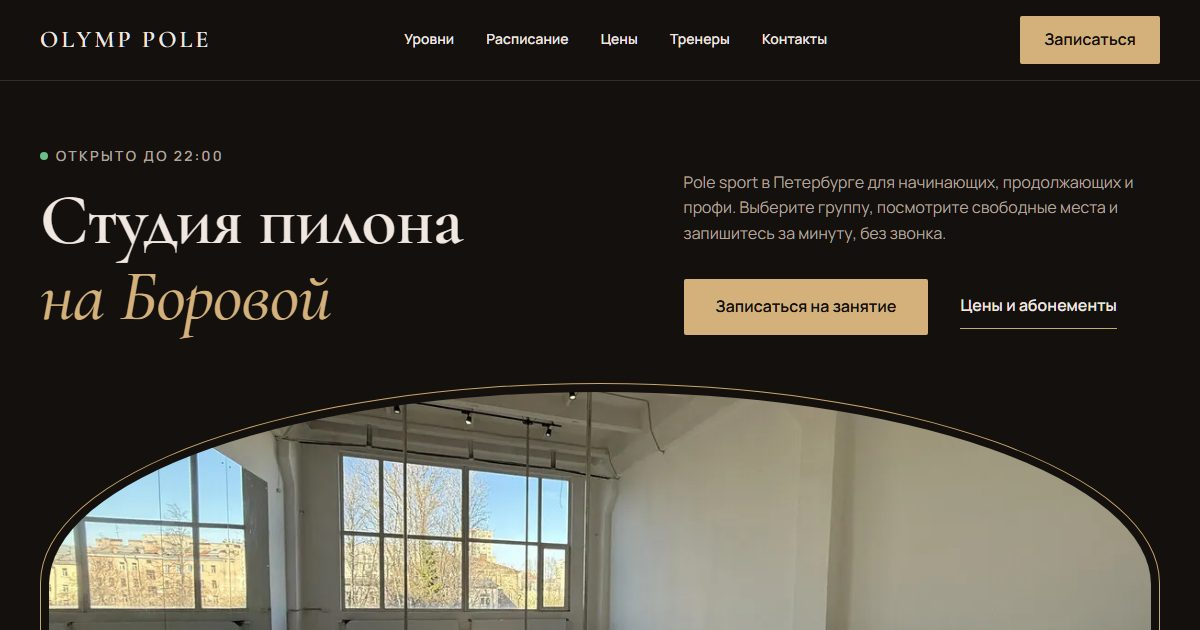
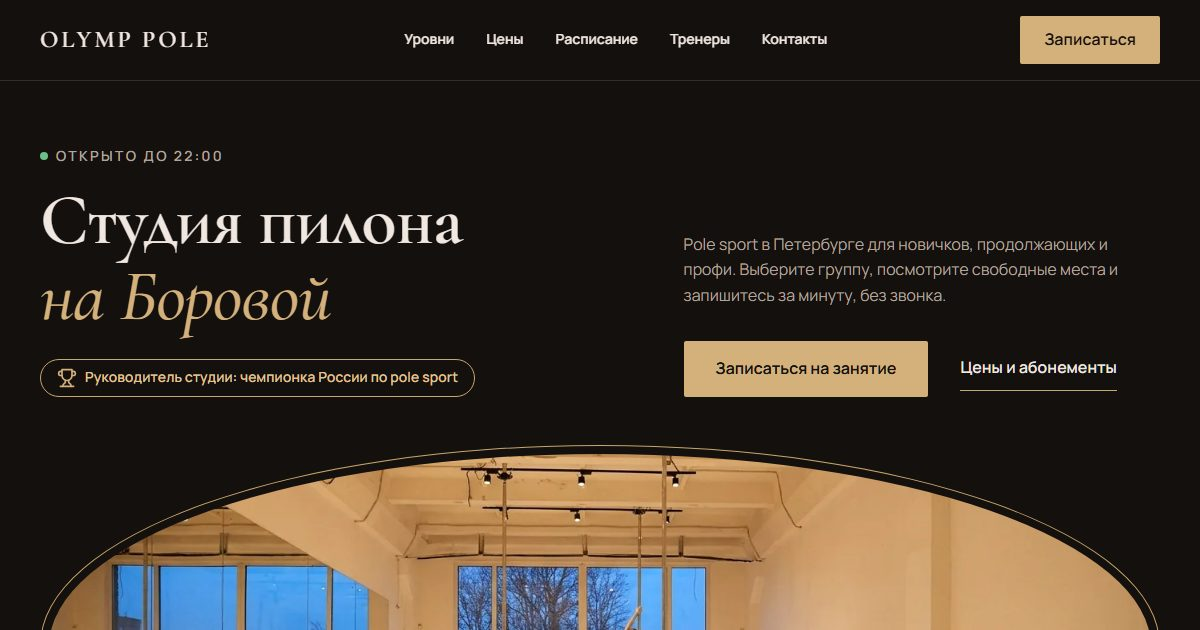
Первый экран: фото зала, переделанное в Gemini (вечер, тёплый свет, ученицы на пилонах), новая картинка превью

diff --git a/index.html b/index.html
@@ -15,7 +15,7 @@
 <meta name="theme-color" content="#14100E">
 <link rel="icon" href="favicon.svg" type="image/svg+xml">
 <script>document.documentElement.classList.add('js')</script>
-<link rel="preload" as="image" href="img/zal-okna.webp">
+<link rel="preload" as="image" href="img/zal-vecher.webp">
 <link rel="preconnect" href="https://olymp-pole-bot.capybaria-bot.workers.dev">
 <link rel="stylesheet" href="style.css">
 <script type="application/ld+json">{
@@ -24,7 +24,7 @@
   "name": "Olymp Pole",
   "description": "Студия танца на пилоне: pole sport для новичков, продолжающих и профи",
   "url": "https://maltode.github.io/olymp-pole/",
-  "image": "https://maltode.github.io/olymp-pole/img/zal-okna.webp",
+  "image": "https://maltode.github.io/olymp-pole/img/zal-vecher.webp",
   "telephone": "+79602408032",
   "address": {"@type": "PostalAddress", "streetAddress": "Боровая ул., 116, 3 этаж, офис 312", "addressLocality": "Санкт-Петербург", "addressCountry": "RU"},
   "geo": {"@type": "GeoCoordinates", "latitude": 59.90746, "longitude": 30.339281},
@@ -54,7 +54,8 @@
       <div class="hero-knopki"><a class="btn" href="#raspisanie">Записаться на занятие</a><a class="ssylka" href="#ceny">Цены и абонементы</a></div>
     </div>
   </div>
-  <figure class="arka"><img src="img/zal-okna.webp" width="1200" height="900" alt="Зал Olymp Pole: пилоны, зеркало и окна во всю стену" fetchpriority="high"></figure>
+  <!-- Фото зала, переделанное в Gemini 26.11: вечер, тёплый свет, ученицы на пилонах (оригинал img/zal-okna.webp) -->
+  <figure class="arka"><img src="img/zal-vecher.webp" width="1376" height="768" alt="Зал Olymp Pole вечером: ученицы на пилонах, зеркало и окна во всю стену" fetchpriority="high"></figure>
   <ul class="fakty">
     <li><svg viewBox="0 0 24 24" fill="none" stroke="currentColor" stroke-width="2" stroke-linecap="round" stroke-linejoin="round" aria-hidden="true"><path d="M20 10c0 4.993-5.539 10.193-7.399 11.799a1 1 0 0 1-1.202 0C9.539 20.193 4 14.993 4 10a8 8 0 0 1 16 0"/><circle cx="12" cy="10" r="3"/></svg><span>Боровая ул., 116, 3 этаж, офис 312</span></li>
     <li><svg viewBox="0 0 24 24" fill="none" stroke="currentColor" stroke-width="2" stroke-linecap="round" stroke-linejoin="round" aria-hidden="true"><circle cx="12" cy="12" r="10"/><path d="M12 6v6l4 2"/></svg><span>Каждый день 8:00–22:00, по записи</span></li>
